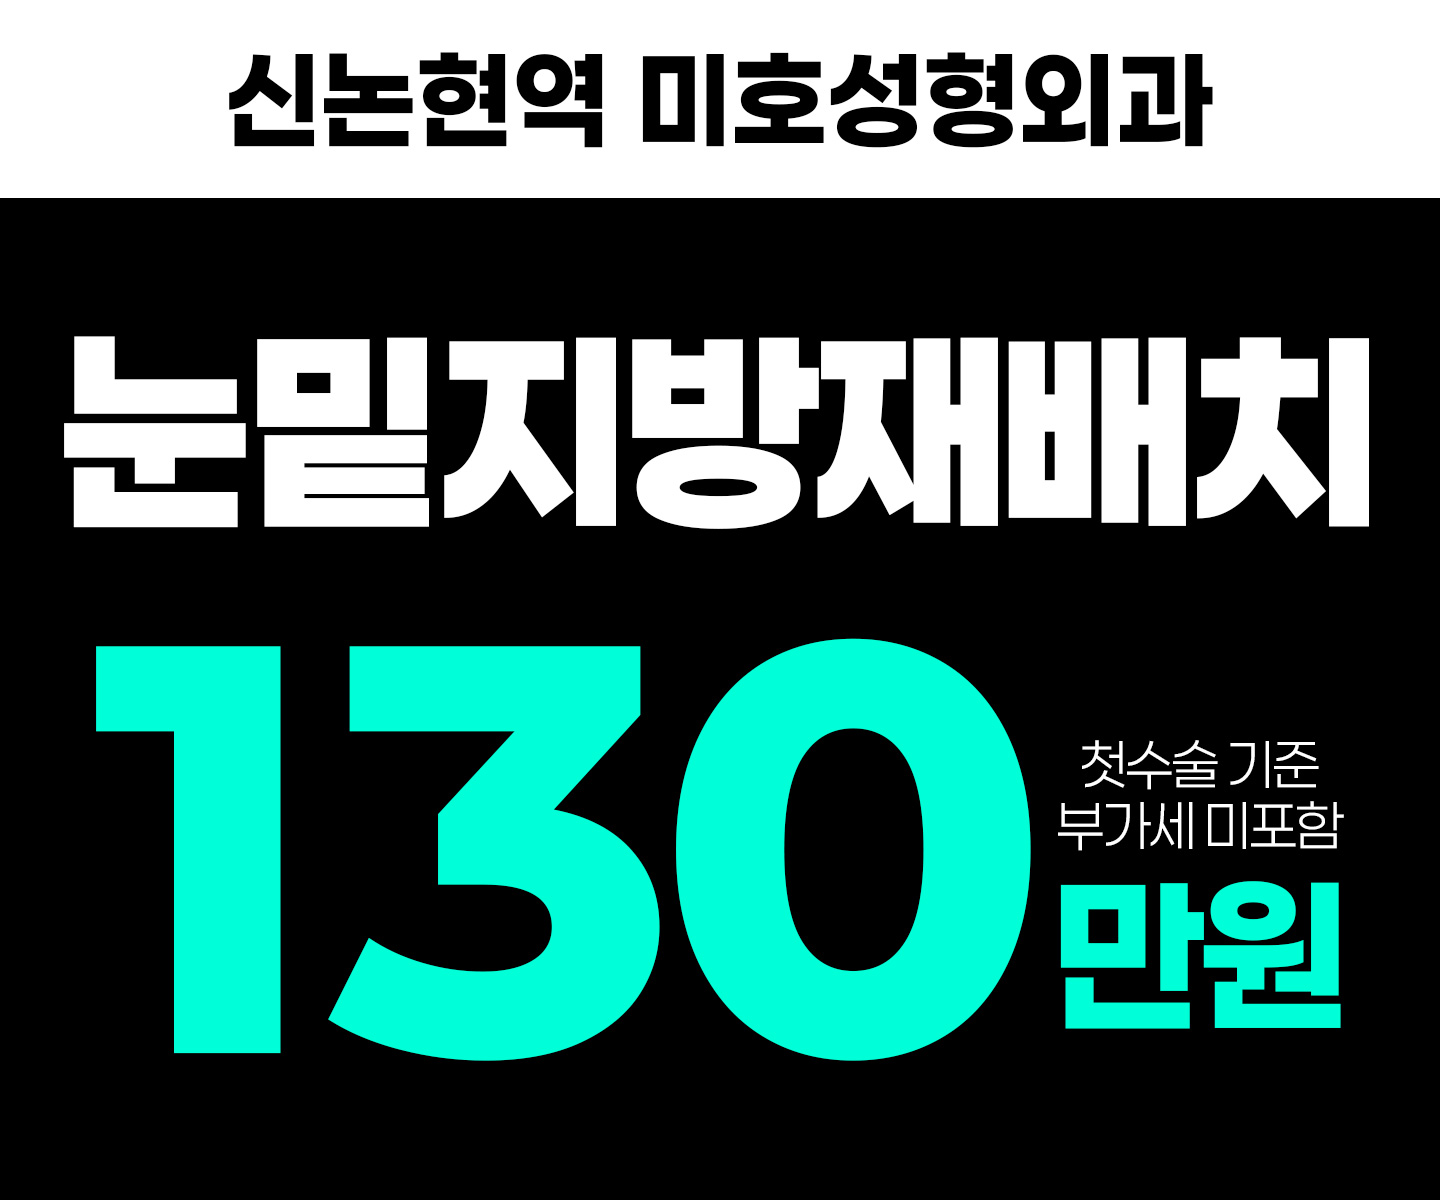
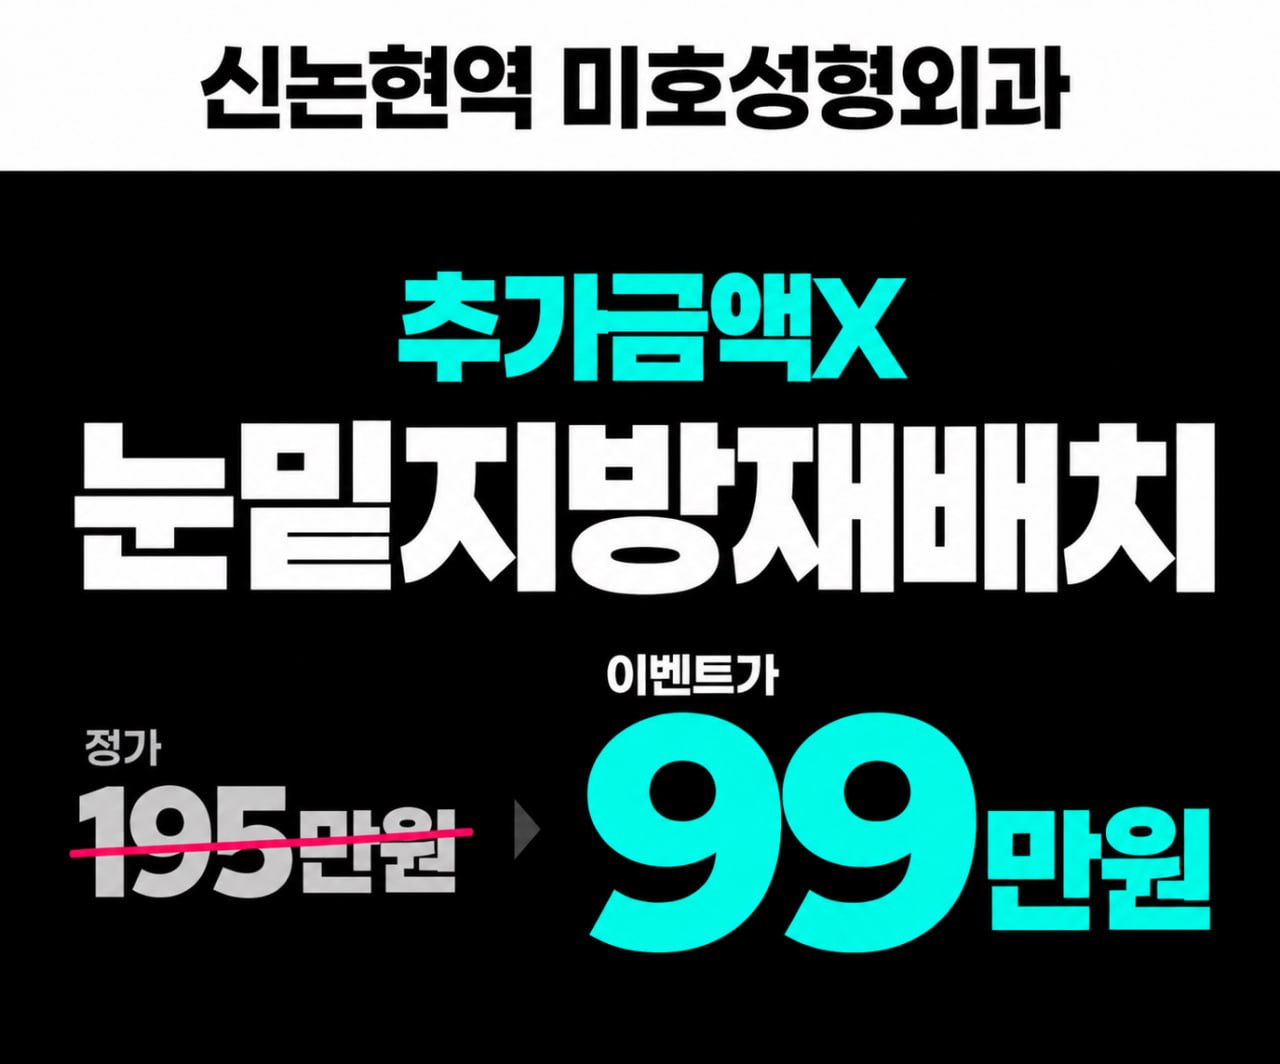
update landing 02 images

diff --git a/components/LandingClient.tsx b/components/LandingClient.tsx
@@ -559,20 +559,24 @@ function LandingSpecialContent({
   }
 
   return (
-    <>
-      {isLanding02 ? (
-      <section>
-        <img
-          src="/intro/02/01.jpg"
-          onError={(e) => {
-            e.currentTarget.onerror = null;
-            e.currentTarget.src = "/intro/02/01.png";
-          }}
-          alt="미호성형외과 눈밑지방재배치"
-          className="block w-full"
-          draggable={false}
-        />
-      </section>
+  <>
+    {isLanding02 ? (
+      <>
+        {["01", "02"].map((imageNo) => (
+          <section key={imageNo}>
+            <img
+              src={`/intro/02/${imageNo}.jpg`}
+              onError={(e) => {
+                e.currentTarget.onerror = null;
+                e.currentTarget.src = `/intro/02/${imageNo}.png`;
+              }}
+              alt={`미호성형외과 눈밑지방재배치 ${imageNo}`}
+              className="block w-full"
+              draggable={false}
+            />
+          </section>
+        ))}
+      </>
     ) : isLanding08 ? (
         <section>
           <img
@@ -981,16 +985,16 @@ function LandingSpecialContent({
           <img
             src={
               landingKey === "02"
-              ? "/intro/02/02.jpg"
+              ? "/intro/02/03.jpg"
               : landingKey === "04"
-                ? "/intro/04/02.jpg"
+                ? "/intro/04/03.jpg"
                 : landingKey === "05"
                   ? "/intro/05/03.jpg"
                   : landingKey === "10"
-                    ? "/intro/10/02.jpg"
+                    ? "/intro/10/03.jpg"
                     : landingKey === "07"
                       ? "/intro/07/05.jpg"
-                      : "/intro/03/02.jpg"
+                      : "/intro/03/03.jpg"
           }
           onError={(e) => {
             e.currentTarget.onerror = null;
